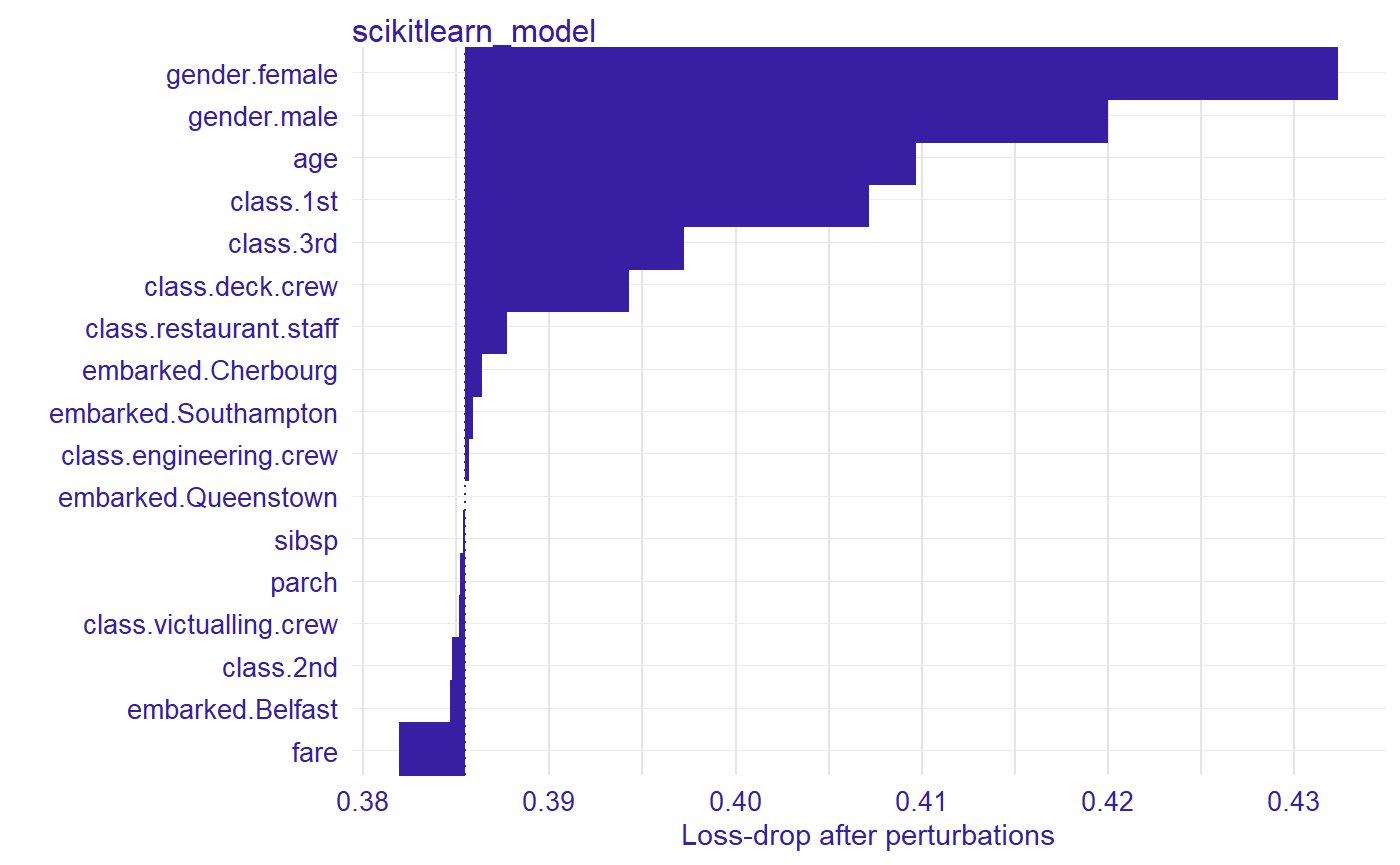
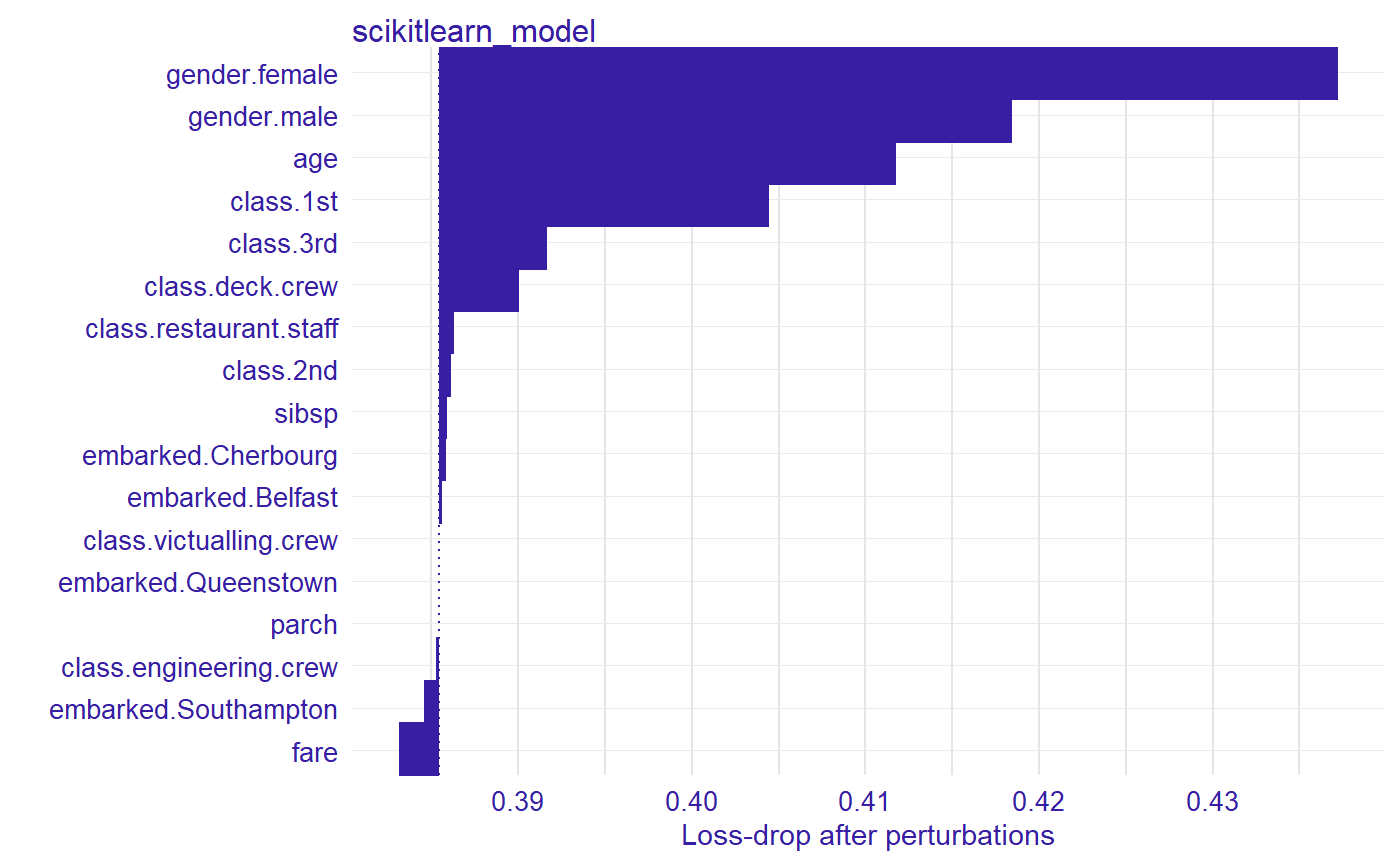
Site update

diff --git a/docs/reference/explain_mljar.html b/docs/reference/explain_mljar.html
@@ -6,7 +6,7 @@
 <meta http-equiv="X-UA-Compatible" content="IE=edge">
 <meta name="viewport" content="width=device-width, initial-scale=1.0">
 
-<title>Create explainer from your mlr model — explain_mlr • DALEXtra</title>
+<title>Create explainer from your mljar model — explain_mljar • DALEXtra</title>
 
 <!-- jquery -->
 <script src="https://code.jquery.com/jquery-3.1.0.min.js" integrity="sha384-nrOSfDHtoPMzJHjVTdCopGqIqeYETSXhZDFyniQ8ZHcVy08QesyHcnOUpMpqnmWq" crossorigin="anonymous"></script>
@@ -35,11 +35,11 @@
 
 
 
-<meta property="og:title" content="Create explainer from your mlr model — explain_mlr" />
+<meta property="og:title" content="Create explainer from your mljar model — explain_mljar" />
 
 <meta property="og:description" content="DALEX is designed to work with various black-box models like tree ensembles, linear models, neural networks etc.
-Unfortunately R packages that create such models are very inconsistent. Different tools use different interfaces to train, validate and use models.
-One of those tools, which is one of the most popular one is mlr package. We would like to present dedicated explain function for it." />
+Unfortunately packages that create such models are very inconsistent between many platforms and programming languages. Different tools use different interfaces to train, validate and use models.
+One of those tools, we would like to make more accessible is mljar." />
 <meta name="twitter:card" content="summary" />
 
 
@@ -117,29 +117,33 @@ One of those tools, which is one of the most popular one is mlr package. We woul
 <div class="row">
   <div class="col-md-9 contents">
     <div class="page-header">
-    <h1>Create explainer from your mlr model</h1>
+    <h1>Create explainer from your mljar model</h1>
     
-    <div class="hidden name"><code>explain_mlr.Rd</code></div>
+    <div class="hidden name"><code>explain_mljar.Rd</code></div>
     </div>
 
     <div class="ref-description">
     
     <p>DALEX is designed to work with various black-box models like tree ensembles, linear models, neural networks etc.
-Unfortunately R packages that create such models are very inconsistent. Different tools use different interfaces to train, validate and use models.
-One of those tools, which is one of the most popular one is mlr package. We would like to present dedicated explain function for it.</p>
+Unfortunately packages that create such models are very inconsistent between many platforms and programming languages. Different tools use different interfaces to train, validate and use models.
+One of those tools, we would like to make more accessible is mljar.</p>
     
     </div>
 
-    <pre class="usage"><span class='fu'>explain_mlr</span>(<span class='no'>model</span>, <span class='kw'>data</span> <span class='kw'>=</span> <span class='kw'>NULL</span>, <span class='kw'>y</span> <span class='kw'>=</span> <span class='kw'>NULL</span>, <span class='kw'>predict_function</span> <span class='kw'>=</span> <span class='kw'>NULL</span>,
-  <span class='kw'>residual_function</span> <span class='kw'>=</span> <span class='kw'>NULL</span>, <span class='no'>...</span>, <span class='kw'>label</span> <span class='kw'>=</span> <span class='kw'>NULL</span>, <span class='kw'>verbose</span> <span class='kw'>=</span> <span class='fl'>TRUE</span>,
-  <span class='kw'>precalculate</span> <span class='kw'>=</span> <span class='fl'>TRUE</span>)</pre>
+    <pre class="usage"><span class='fu'>explain_mljar</span>(<span class='no'>model</span>, <span class='no'>project_title</span>, <span class='kw'>data</span> <span class='kw'>=</span> <span class='kw'>NULL</span>, <span class='kw'>y</span> <span class='kw'>=</span> <span class='kw'>NULL</span>,
+  <span class='kw'>predict_function</span> <span class='kw'>=</span> <span class='kw'>NULL</span>, <span class='kw'>residual_function</span> <span class='kw'>=</span> <span class='kw'>NULL</span>, <span class='no'>...</span>,
+  <span class='kw'>label</span> <span class='kw'>=</span> <span class='kw'>NULL</span>, <span class='kw'>verbose</span> <span class='kw'>=</span> <span class='fl'>TRUE</span>, <span class='kw'>precalculate</span> <span class='kw'>=</span> <span class='fl'>TRUE</span>)</pre>
     
     <h2 class="hasAnchor" id="arguments"><a class="anchor" href="#arguments"></a>Arguments</h2>
     <table class="ref-arguments">
     <colgroup><col class="name" /><col class="desc" /></colgroup>
     <tr>
       <th>model</th>
-      <td><p>object - a model to be explained</p></td>
+      <td><p>object - a mljar model to be explained</p></td>
+    </tr>
+    <tr>
+      <th>project_title</th>
+      <td><p>character - a name of project_title  in which model was built. Without it predictions are unreachable.</p></td>
     </tr>
     <tr>
       <th>data</th>
@@ -171,7 +175,7 @@ One of those tools, which is one of the most popular one is mlr package. We woul
     </tr>
     <tr>
       <th>precalculate</th>
-      <td><p>if TRUE (default) then 'predicted_values' and 'residuals' are calculated when explainer is created. This will happenn also if 'verbose' is TRUE</p></td>
+      <td><p>if TRUE (default) then 'predicted_values' and 'residuals' are calculated when explainer is created. This will happenn also if 'verbose' is TRUE.</p></td>
     </tr>
     </table>
     
@@ -181,52 +185,21 @@ One of those tools, which is one of the most popular one is mlr package. We woul
     
 
     <h2 class="hasAnchor" id="examples"><a class="anchor" href="#examples"></a>Examples</h2>
-    <pre class="examples"><div class='input'><span class='fu'><a href='https://rdrr.io/r/base/library.html'>library</a></span>(<span class='st'>"DALEXtra"</span>)
+    <pre class="examples"><span class='co'># NOT RUN {</span>
+<span class='fu'><a href='https://rdrr.io/r/base/library.html'>library</a></span>(<span class='st'>"DALEXtra"</span>)
+<span class='fu'><a href='https://rdrr.io/r/base/library.html'>library</a></span>(<span class='no'>mljar</span>)
 <span class='no'>titanic_test</span> <span class='kw'>&lt;-</span> <span class='fu'><a href='https://rdrr.io/r/utils/read.table.html'>read.csv</a></span>(<span class='fu'><a href='https://rdrr.io/r/base/system.file.html'>system.file</a></span>(<span class='st'>"extdata"</span>, <span class='st'>"titanic_test.csv"</span>, <span class='kw'>package</span> <span class='kw'>=</span> <span class='st'>"DALEXtra"</span>))
-<span class='no'>titanic_train</span> <span class='kw'>&lt;-</span> <span class='fu'><a href='https://rdrr.io/r/utils/read.table.html'>read.csv</a></span>(<span class='fu'><a href='https://rdrr.io/r/base/system.file.html'>system.file</a></span>(<span class='st'>"extdata"</span>, <span class='st'>"titanic_train.csv"</span>, <span class='kw'>package</span> <span class='kw'>=</span> <span class='st'>"DALEXtra"</span>))
-<span class='fu'><a href='https://rdrr.io/r/base/library.html'>library</a></span>(<span class='st'>"mlr"</span>)</div><div class='output co'>#&gt; <span class='message'>Loading required package: ParamHelpers</span></div><div class='input'><span class='no'>task</span> <span class='kw'>&lt;-</span> <span class='kw pkg'>mlr</span><span class='kw ns'>::</span><span class='fu'><a href='https://rdrr.io/pkg/mlr/man/ClassifTask.html'>makeClassifTask</a></span>(
-<span class='kw'>id</span> <span class='kw'>=</span> <span class='st'>"R"</span>,
-<span class='kw'>data</span> <span class='kw'>=</span> <span class='no'>titanic_train</span>,
-<span class='kw'>target</span> <span class='kw'>=</span> <span class='st'>"survived"</span>
-)
-<span class='no'>learner</span> <span class='kw'>&lt;-</span> <span class='kw pkg'>mlr</span><span class='kw ns'>::</span><span class='fu'><a href='https://rdrr.io/pkg/mlr/man/makeLearner.html'>makeLearner</a></span>(
-  <span class='st'>"classif.gbm"</span>,
-  <span class='kw'>par.vals</span> <span class='kw'>=</span> <span class='fu'><a href='https://rdrr.io/r/base/list.html'>list</a></span>(
-    <span class='kw'>distribution</span> <span class='kw'>=</span> <span class='st'>"bernoulli"</span>,
-    <span class='kw'>n.trees</span> <span class='kw'>=</span> <span class='fl'>500</span>,
-    <span class='kw'>interaction.depth</span> <span class='kw'>=</span> <span class='fl'>4</span>,
-    <span class='kw'>n.minobsinnode</span> <span class='kw'>=</span> <span class='fl'>12</span>,
-    <span class='kw'>shrinkage</span> <span class='kw'>=</span> <span class='fl'>0.001</span>,
-    <span class='kw'>bag.fraction</span> <span class='kw'>=</span> <span class='fl'>0.5</span>,
-    <span class='kw'>train.fraction</span> <span class='kw'>=</span> <span class='fl'>1</span>
-  ),
-  <span class='kw'>predict.type</span> <span class='kw'>=</span> <span class='st'>"prob"</span>
-)
-<span class='no'>gbm</span> <span class='kw'>&lt;-</span> <span class='kw pkg'>mlr</span><span class='kw ns'>::</span><span class='fu'><a href='https://rdrr.io/pkg/mlr/man/train.html'>train</a></span>(<span class='no'>learner</span>, <span class='no'>task</span>)
-<span class='fu'>explain_mlr</span>(<span class='no'>gbm</span>, <span class='no'>titanic_test</span>[,<span class='fl'>1</span>:<span class='fl'>17</span>], <span class='no'>titanic_test</span>[,<span class='fl'>18</span>])</div><div class='output co'>#&gt; Preparation of a new explainer is initiated
-#&gt;   -&gt; model label       :  WrappedModel  (<span style='color: #BBBB00;'>default</span><span>)
-#&gt;   -&gt; data              :  524  rows  17  cols 
-#&gt;   -&gt; target variable   :  524  values 
-#&gt;   -&gt; predict function  :  yhat.WrappedModel  will be used (</span><span style='color: #BBBB00;'>default</span><span>)
-#&gt;   -&gt; predicted values  :  numerical, min =  0.2702407 , mean =  0.3324318 , max =  0.5648559  
-#&gt;   -&gt; residual function :  difference between y and yhat (</span><span style='color: #BBBB00;'>default</span><span>)
-#&gt;   -&gt; residuals         :  numerical, min =  -0.5648559 , mean =  -0.02136306 , max =  0.7297593  
-#&gt; </span><span style='color: #00BB00;'>A new explainer has been created!</span><span></div><div class='output co'>#&gt; Model label:  WrappedModel 
-#&gt; Model class:  WrappedModel 
-#&gt; Data head  :
-#&gt;   gender.female gender.male age class.1st class.2nd class.3rd class.deck.crew
-#&gt; 1             1           0  16         0         0         1               0
-#&gt; 2             0           1  25         0         0         1               0
-#&gt;   class.engineering.crew class.restaurant.staff class.victualling.crew
-#&gt; 1                      0                      0                      0
-#&gt; 2                      0                      0                      0
-#&gt;   embarked.Belfast embarked.Cherbourg embarked.Queenstown embarked.Southampton
-#&gt; 1                0                  0                   0                    1
-#&gt; 2                0                  0                   0                    1
-#&gt;   fare sibsp parch
-#&gt; 1 7.13     0     0
-#&gt; 2 7.13     0     0</div><div class='input'>
-</div></span></pre>
+
+<span class='no'>model</span> <span class='kw'>&lt;-</span> <span class='fu'><a href='https://rdrr.io/pkg/mljar/man/mljar_fit.html'>mljar_fit</a></span>(<span class='no'>titanic_test</span>[,<span class='fl'>1</span>:<span class='fl'>17</span>], <span class='no'>titanic_test</span>[,<span class='fl'>18</span>],
+                   <span class='kw'>proj_title</span><span class='kw'>=</span><span class='st'>"Project title"</span>, <span class='kw'>exp_title</span><span class='kw'>=</span><span class='st'>"experiment title"</span>,
+                   <span class='kw'>algorithms</span> <span class='kw'>=</span> <span class='fu'><a href='https://rdrr.io/r/base/c.html'>c</a></span>(<span class='st'>"logreg"</span>), <span class='kw'>metric</span> <span class='kw'>=</span> <span class='st'>"logloss"</span>)
+<span class='co'># It Works</span>
+<span class='no'>explainer</span> <span class='kw'>&lt;-</span> <span class='fu'>explain_mljar</span>(<span class='no'>model</span>, <span class='kw'>project_title</span> <span class='kw'>=</span> <span class='st'>"Project title"</span>,
+                           <span class='kw'>data</span> <span class='kw'>=</span> <span class='no'>titanic_test</span>[,<span class='fl'>1</span>:<span class='fl'>17</span>], <span class='no'>titanic_test</span>[,<span class='fl'>18</span>])
+<span class='co'># But it works aswell</span>
+<span class='no'>explainer</span> <span class='kw'>&lt;-</span> <span class='fu'>explain_mljar</span>(<span class='no'>model</span>, <span class='kw'>project_title</span> <span class='kw'>=</span> <span class='st'>"Project title"</span>,
+                           <span class='kw'>verbose</span> <span class='kw'>=</span> <span class='fl'>FALSE</span>, <span class='kw'>precalculate</span> <span class='kw'>=</span> <span class='fl'>FALSE</span>)
+<span class='co'># }</span></pre>
   </div>
   <div class="col-md-3 hidden-xs hidden-sm" id="sidebar">
     <h2>Contents</h2>

diff --git a/docs/index.html b/docs/index.html
@@ -107,14 +107,14 @@
 <p>Package can be installed with execution of the following code</p>
 <pre><code>install.packages("devtools")
 devtools::install_github("ModelOriented/DALEXtra")
-devtools::install_github("pbiecek/DALEX")</code></pre>
+devtools::install_github("ModelOriented/DALEX")</code></pre>
 <p>It is recommended to install latests github version of DALEX</p>
 <p>Package <code>reticulate</code> will be downloaded along with <code>DALEXtra</code> but if you seek for its latests version it can be downloaded here</p>
 <pre><code><a href="https://rdrr.io/pkg/devtools/man/reexports.html">devtools::install_github("rstudio/reticulate")</a></code></pre>
 <p>Packages useful with explanations</p>
-<pre><code>devtools::install_github("ModelOriented/ingredients)
-devtools::install_github("ModelOriented/iBreakDown)
-devtools::install_github("ModelOriented/shapper)
+<pre><code>devtools::install_github("ModelOriented/ingredients")
+devtools::install_github("ModelOriented/iBreakDown")
+devtools::install_github("ModelOriented/shapper")
 devtools::install_github("ModelOriented/auditor")</code></pre>
 <p><a href="https://modeloriented.github.io/DALEXtra/" class="uri">https://modeloriented.github.io/DALEXtra/</a></p>
 </div>
@@ -134,7 +134,7 @@ devtools::install_github("ModelOriented/auditor")</code></pre>
 <a href="#creating-explainer" class="anchor"></a>Creating explainer</h2>
 <div class="sourceCode" id="cb5"><pre class="sourceCode r"><code class="sourceCode r"><a class="sourceLine" id="cb5-1" title="1"><span class="kw"><a href="https://rdrr.io/r/base/library.html">library</a></span>(DALEXtra)</a>
 <a class="sourceLine" id="cb5-2" title="2">explainer &lt;-<span class="st"> </span><span class="kw"><a href="reference/explain_scikitlearn.html">explain_scikitlearn</a></span>(<span class="kw"><a href="https://rdrr.io/r/base/system.file.html">system.file</a></span>(<span class="st">"extdata"</span>, <span class="st">"scikitlearn.pkl"</span>, <span class="dt">package =</span> <span class="st">"DALEXtra"</span>),</a>
-<a class="sourceLine" id="cb5-3" title="3"><span class="dt">yml =</span> <span class="kw"><a href="https://rdrr.io/r/base/system.file.html">system.file</a></span>(<span class="st">"extdata"</span>, <span class="st">"scikitlearn_unix.yml"</span>, <span class="dt">package =</span> <span class="st">"DALEXtra"</span>), </a>
+<a class="sourceLine" id="cb5-3" title="3"><span class="dt">yml =</span> <span class="kw"><a href="https://rdrr.io/r/base/system.file.html">system.file</a></span>(<span class="st">"extdata"</span>, <span class="st">"testing_environment.yml"</span>, <span class="dt">package =</span> <span class="st">"DALEXtra"</span>), </a>
 <a class="sourceLine" id="cb5-4" title="4"><span class="dt">data =</span> titanic_test[,<span class="dv">1</span><span class="op">:</span><span class="dv">17</span>], <span class="dt">y =</span> titanic_test<span class="op">$</span>survived)</a></code></pre></div>
 <pre><code>## Preparation of a new explainer is initiated
 ##   -&gt; model label       :  scikitlearn_model  ([33mdefault[39m)
@@ -150,25 +150,35 @@ devtools::install_github("ModelOriented/auditor")</code></pre>
 <div id="creating-explanations" class="section level2">
 <h2 class="hasAnchor">
 <a href="#creating-explanations" class="anchor"></a>Creating explanations</h2>
-<p>Now with explainer ready we can use any of DrWhy.ai universe tools to make explanations. Here is small demo</p>
+<p>Now with explainer ready we can use any of DrWhy.ai universe tools to make explanations. Here is a small demo</p>
 <div class="sourceCode" id="cb7"><pre class="sourceCode r"><code class="sourceCode r"><a class="sourceLine" id="cb7-1" title="1"><span class="kw"><a href="https://rdrr.io/r/base/library.html">library</a></span>(DALEX)</a>
 <a class="sourceLine" id="cb7-2" title="2"><span class="kw"><a href="https://rdrr.io/r/graphics/plot.html">plot</a></span>(<span class="kw">model_performance</span>(explainer))</a></code></pre></div>
 <p><img src="index_files/figure-html/unnamed-chunk-3-1.png" width="700"></p>
 <div class="sourceCode" id="cb8"><pre class="sourceCode r"><code class="sourceCode r"><a class="sourceLine" id="cb8-1" title="1"><span class="kw"><a href="https://rdrr.io/r/base/library.html">library</a></span>(ingredients)</a>
 <a class="sourceLine" id="cb8-2" title="2"><span class="kw"><a href="https://rdrr.io/r/graphics/plot.html">plot</a></span>(<span class="kw">feature_importance</span>(explainer))</a></code></pre></div>
 <p><img src="index_files/figure-html/unnamed-chunk-3-2.png" width="700"></p>
-<div class="sourceCode" id="cb9"><pre class="sourceCode r"><code class="sourceCode r"><a class="sourceLine" id="cb9-1" title="1"><span class="kw"><a href="https://rdrr.io/r/base/library.html">library</a></span>(iBreakDown)</a>
-<a class="sourceLine" id="cb9-2" title="2"><span class="kw"><a href="https://rdrr.io/r/graphics/plot.html">plot</a></span>(<span class="kw">break_down</span>(explainer, titanic_test[<span class="dv">2</span>,<span class="dv">1</span><span class="op">:</span><span class="dv">17</span>]))</a></code></pre></div>
+<div class="sourceCode" id="cb9"><pre class="sourceCode r"><code class="sourceCode r"><a class="sourceLine" id="cb9-1" title="1"><span class="kw">describe</span>(<span class="kw">feature_importance</span>(explainer))</a></code></pre></div>
+<pre><code>## The number of important variables for scikitlearn_model's prediction is 2 out of 17. 
+##  Variables gender.female, gender.male have the highest importantance.</code></pre>
+<div class="sourceCode" id="cb11"><pre class="sourceCode r"><code class="sourceCode r"><a class="sourceLine" id="cb11-1" title="1"><span class="kw"><a href="https://rdrr.io/r/base/library.html">library</a></span>(iBreakDown)</a>
+<a class="sourceLine" id="cb11-2" title="2"><span class="kw"><a href="https://rdrr.io/r/graphics/plot.html">plot</a></span>(<span class="kw">break_down</span>(explainer, titanic_test[<span class="dv">2</span>,<span class="dv">1</span><span class="op">:</span><span class="dv">17</span>]))</a></code></pre></div>
 <p><img src="index_files/figure-html/unnamed-chunk-3-3.png" width="700"></p>
-<div class="sourceCode" id="cb10"><pre class="sourceCode r"><code class="sourceCode r"><a class="sourceLine" id="cb10-1" title="1"><span class="kw"><a href="https://rdrr.io/r/base/library.html">library</a></span>(shapper)</a>
-<a class="sourceLine" id="cb10-2" title="2"><span class="kw"><a href="https://rdrr.io/r/graphics/plot.html">plot</a></span>(<span class="kw">shap</span>(explainer, titanic_test[<span class="dv">2</span>,<span class="dv">1</span><span class="op">:</span><span class="dv">17</span>]))</a></code></pre></div>
+<div class="sourceCode" id="cb12"><pre class="sourceCode r"><code class="sourceCode r"><a class="sourceLine" id="cb12-1" title="1"><span class="kw">describe</span>(<span class="kw">break_down</span>(explainer, titanic_test[<span class="dv">2</span>,<span class="dv">1</span><span class="op">:</span><span class="dv">17</span>]))</a></code></pre></div>
+<pre><code>## Scikitlearn_model predicts, that the prediction for the selected instance is 0.132 which is lower than the average model prediction.
+##  
+## The most important variables that decrease the prediction are class.3rd, gender.female. 
+## The most important variable that increase the prediction is age.
+##  
+## Other variables are with less importance. The contribution of all other variables is -0.108 .</code></pre>
+<div class="sourceCode" id="cb14"><pre class="sourceCode r"><code class="sourceCode r"><a class="sourceLine" id="cb14-1" title="1"><span class="kw"><a href="https://rdrr.io/r/base/library.html">library</a></span>(shapper)</a>
+<a class="sourceLine" id="cb14-2" title="2"><span class="kw"><a href="https://rdrr.io/r/graphics/plot.html">plot</a></span>(<span class="kw">shap</span>(explainer, titanic_test[<span class="dv">2</span>,<span class="dv">1</span><span class="op">:</span><span class="dv">17</span>]))</a></code></pre></div>
 <p><img src="index_files/figure-html/unnamed-chunk-3-4.png" width="700"></p>
-<div class="sourceCode" id="cb11"><pre class="sourceCode r"><code class="sourceCode r"><a class="sourceLine" id="cb11-1" title="1"><span class="kw"><a href="https://rdrr.io/r/base/library.html">library</a></span>(auditor)</a>
-<a class="sourceLine" id="cb11-2" title="2">eval &lt;-<span class="st"> </span><span class="kw">model_evaluation</span>(explainer)</a>
-<a class="sourceLine" id="cb11-3" title="3"><span class="kw">plot_roc</span>(eval)</a></code></pre></div>
+<div class="sourceCode" id="cb15"><pre class="sourceCode r"><code class="sourceCode r"><a class="sourceLine" id="cb15-1" title="1"><span class="kw"><a href="https://rdrr.io/r/base/library.html">library</a></span>(auditor)</a>
+<a class="sourceLine" id="cb15-2" title="2">eval &lt;-<span class="st"> </span><span class="kw">model_evaluation</span>(explainer)</a>
+<a class="sourceLine" id="cb15-3" title="3"><span class="kw">plot_roc</span>(eval)</a></code></pre></div>
 <p><img src="index_files/figure-html/unnamed-chunk-3-5.png" width="700"></p>
-<div class="sourceCode" id="cb12"><pre class="sourceCode r"><code class="sourceCode r"><a class="sourceLine" id="cb12-1" title="1"><span class="co"># Predictions with newdata</span></a>
-<a class="sourceLine" id="cb12-2" title="2"><span class="kw"><a href="https://rdrr.io/r/stats/predict.html">predict</a></span>(explainer, titanic_test[<span class="dv">1</span><span class="op">:</span><span class="dv">10</span>, <span class="dv">1</span><span class="op">:</span><span class="dv">17</span>])</a></code></pre></div>
+<div class="sourceCode" id="cb16"><pre class="sourceCode r"><code class="sourceCode r"><a class="sourceLine" id="cb16-1" title="1"><span class="co"># Predictions with newdata</span></a>
+<a class="sourceLine" id="cb16-2" title="2"><span class="kw"><a href="https://rdrr.io/r/stats/predict.html">predict</a></span>(explainer, titanic_test[<span class="dv">1</span><span class="op">:</span><span class="dv">10</span>, <span class="dv">1</span><span class="op">:</span><span class="dv">17</span>])</a></code></pre></div>
 <pre><code>##  [1] 0.3565896 0.1321947 0.7638813 0.1037486 0.1265221 0.2949228 0.1421281
 ##  [8] 0.1421281 0.4154695 0.1321947</code></pre>
 </div>

diff --git a/docs/reference/explain_h2o.html b/docs/reference/explain_h2o.html
@@ -143,7 +143,7 @@ One of those tools, we would like to make more accessible is H2O.</p>
     </tr>
     <tr>
       <th>data</th>
-      <td><p>data.frame or matrix - data that was used for fitting. If not provided then will be extracted from the model</p></td>
+      <td><p>data.frame or matrix - data that was used for fitting. If not provided then will be extracted from the model. Data should be passed without target column (y parameter). If not, some of the functionalities my not work.</p></td>
     </tr>
     <tr>
       <th>y</th>
@@ -184,17 +184,25 @@ One of those tools, we would like to make more accessible is H2O.</p>
     <pre class="examples"><div class='input'><span class='fu'><a href='https://rdrr.io/r/base/library.html'>library</a></span>(<span class='st'>"DALEXtra"</span>)
 <span class='no'>titanic_test</span> <span class='kw'>&lt;-</span> <span class='fu'><a href='https://rdrr.io/r/utils/read.table.html'>read.csv</a></span>(<span class='fu'><a href='https://rdrr.io/r/base/system.file.html'>system.file</a></span>(<span class='st'>"extdata"</span>, <span class='st'>"titanic_test.csv"</span>, <span class='kw'>package</span> <span class='kw'>=</span> <span class='st'>"DALEXtra"</span>))
 <span class='no'>titanic_train</span> <span class='kw'>&lt;-</span> <span class='fu'><a href='https://rdrr.io/r/utils/read.table.html'>read.csv</a></span>(<span class='fu'><a href='https://rdrr.io/r/base/system.file.html'>system.file</a></span>(<span class='st'>"extdata"</span>, <span class='st'>"titanic_train.csv"</span>, <span class='kw'>package</span> <span class='kw'>=</span> <span class='st'>"DALEXtra"</span>))
-<span class='kw pkg'>h2o</span><span class='kw ns'>::</span><span class='fu'><a href='https://rdrr.io/pkg/h2o/man/h2o.init.html'>h2o.init</a></span>()</div><div class='output co'>#&gt;  Connection successful!
+<span class='kw pkg'>h2o</span><span class='kw ns'>::</span><span class='fu'><a href='https://rdrr.io/pkg/h2o/man/h2o.init.html'>h2o.init</a></span>()</div><div class='output co'>#&gt; 
+#&gt; H2O is not running yet, starting it now...
+#&gt; 
+#&gt; Note:  In case of errors look at the following log files:
+#&gt;     C:\Users\szyna\AppData\Local\Temp\RtmpYZL02P/h2o_szyna_started_from_r.out
+#&gt;     C:\Users\szyna\AppData\Local\Temp\RtmpYZL02P/h2o_szyna_started_from_r.err
+#&gt; 
+#&gt; 
+#&gt; Starting H2O JVM and connecting: . Connection successful!
 #&gt; 
 #&gt; R is connected to the H2O cluster: 
-#&gt;     H2O cluster uptime:         5 hours 49 minutes 
+#&gt;     H2O cluster uptime:         3 seconds 9 milliseconds 
 #&gt;     H2O cluster timezone:       Europe/Belgrade 
 #&gt;     H2O data parsing timezone:  UTC 
 #&gt;     H2O cluster version:        3.24.0.5 
-#&gt;     H2O cluster version age:    2 months and 1 day  
-#&gt;     H2O cluster name:           H2O_started_from_R_szyna_czg417 
+#&gt;     H2O cluster version age:    2 months and 3 days  
+#&gt;     H2O cluster name:           H2O_started_from_R_szyna_mwl453 
 #&gt;     H2O cluster total nodes:    1 
-#&gt;     H2O cluster total memory:   1.95 GB 
+#&gt;     H2O cluster total memory:   1.97 GB 
 #&gt;     H2O cluster total cores:    4 
 #&gt;     H2O cluster allowed cores:  4 
 #&gt;     H2O cluster healthy:        TRUE 
@@ -220,14 +228,14 @@ One of those tools, we would like to make more accessible is H2O.</p>
 <span class='fu'>explain_h2o</span>(<span class='no'>model</span>, <span class='no'>titanic_test</span>[,<span class='fl'>1</span>:<span class='fl'>17</span>], <span class='no'>titanic_test</span>[,<span class='fl'>18</span>])</div><div class='output co'>#&gt;  Connection successful!
 #&gt; 
 #&gt; R is connected to the H2O cluster: 
-#&gt;     H2O cluster uptime:         5 hours 49 minutes 
+#&gt;     H2O cluster uptime:         10 seconds 525 milliseconds 
 #&gt;     H2O cluster timezone:       Europe/Belgrade 
 #&gt;     H2O data parsing timezone:  UTC 
 #&gt;     H2O cluster version:        3.24.0.5 
-#&gt;     H2O cluster version age:    2 months and 1 day  
-#&gt;     H2O cluster name:           H2O_started_from_R_szyna_czg417 
+#&gt;     H2O cluster version age:    2 months and 3 days  
+#&gt;     H2O cluster name:           H2O_started_from_R_szyna_mwl453 
 #&gt;     H2O cluster total nodes:    1 
-#&gt;     H2O cluster total memory:   1.95 GB 
+#&gt;     H2O cluster total memory:   1.97 GB 
 #&gt;     H2O cluster total cores:    4 
 #&gt;     H2O cluster allowed cores:  4 
 #&gt;     H2O cluster healthy:        TRUE 

diff --git a/docs/reference/explain_keras.html b/docs/reference/explain_keras.html
@@ -217,6 +217,37 @@ If .yml file seems not to work, virtual env can be created manually using anacon
 <code>conda install -n name_of_env name_of_package=0.20</code> <br /></p>
     
 
+    <h2 class="hasAnchor" id="examples"><a class="anchor" href="#examples"></a>Examples</h2>
+    <pre class="examples"><div class='input'><span class='fu'><a href='https://rdrr.io/r/base/library.html'>library</a></span>(<span class='st'>"DALEXtra"</span>)
+<span class='kw'>if</span>(<span class='kw pkg'>DALEXtra</span><span class='kw ns'>:::</span><span class='fu'>is_conda</span>()) {
+   <span class='co'># Explainer build (Keep in mind that 9th column is target)</span>
+   <span class='no'>test_data</span> <span class='kw'>&lt;-</span>
+   <span class='fu'><a href='https://rdrr.io/r/utils/read.table.html'>read.csv</a></span>(
+   <span class='st'>"https://raw.githubusercontent.com/jbrownlee/Datasets/master/pima-indians-diabetes.data.csv"</span>,
+   <span class='kw'>sep</span> <span class='kw'>=</span> <span class='st'>","</span>)
+   <span class='co'># Keep in mind that when pickle is being built and loaded,</span>
+   <span class='co'># not only Python version but libraries versions has to match aswell</span>
+   <span class='no'>explainer</span> <span class='kw'>&lt;-</span> <span class='fu'>explain_keras</span>(<span class='fu'><a href='https://rdrr.io/r/base/system.file.html'>system.file</a></span>(<span class='st'>"extdata"</span>, <span class='st'>"keras.pkl"</span>, <span class='kw'>package</span> <span class='kw'>=</span> <span class='st'>"DALEXtra"</span>),
+   <span class='kw'>yml</span> <span class='kw'>=</span> <span class='fu'><a href='https://rdrr.io/r/base/system.file.html'>system.file</a></span>(<span class='st'>"extdata"</span>, <span class='st'>"testing_environment.yml"</span>, <span class='kw'>package</span> <span class='kw'>=</span> <span class='st'>"DALEXtra"</span>),
+   <span class='kw'>data</span> <span class='kw'>=</span> <span class='no'>test_data</span>[,<span class='fl'>1</span>:<span class='fl'>8</span>], <span class='kw'>y</span> <span class='kw'>=</span> <span class='no'>test_data</span>[,<span class='fl'>9</span>])
+   <span class='fu'><a href='https://rdrr.io/r/graphics/plot.html'>plot</a></span>(<span class='fu'>model_performance</span>(<span class='no'>explainer</span>))
+
+   <span class='co'># Predictions with newdata</span>
+   <span class='fu'><a href='https://rdrr.io/r/stats/predict.html'>predict</a></span>(<span class='no'>explainer</span>, <span class='no'>test_data</span>[<span class='fl'>1</span>:<span class='fl'>10</span>,<span class='fl'>1</span>:<span class='fl'>8</span>])
+
+} <span class='kw'>else</span> {
+  <span class='fu'><a href='https://rdrr.io/r/base/print.html'>print</a></span>(<span class='st'>'Conda is required.'</span>)
+}</div><div class='output co'>#&gt; <span class='message'>There already exists environment named the same as it is specified in .yml file - myenv. It will be used</span></div><div class='output co'>#&gt; Preparation of a new explainer is initiated
+#&gt;   -&gt; model label       :  keras  (<span style='color: #BBBB00;'>default</span><span>)
+#&gt;   -&gt; data              :  767  rows  8  cols 
+#&gt;   -&gt; target variable   :  767  values 
+#&gt;   -&gt; predict function  :  yhat.keras  will be used (</span><span style='color: #BBBB00;'>default</span><span>)
+#&gt;   -&gt; predicted values  :  numerical, min =  0.004537016 , mean =  0.316504 , max =  0.9806014  
+#&gt;   -&gt; residual function :  difference between y and yhat (</span><span style='color: #BBBB00;'>default</span><span>)
+#&gt;   -&gt; residuals         :  numerical, min =  -0.8733932 , mean =  0.03160553 , max =  0.9648628  
+#&gt; </span><span style='color: #00BB00;'>A new explainer has been created!</span><span></div><div class='output co'>#&gt;  [1] 0.16833094 0.75797921 0.05761898 0.69794130 0.21207666 0.22323561
+#&gt;  [7] 0.75763035 0.56127292 0.46056730 0.11284519</div><div class='input'>
+</div></span></pre>
   </div>
   <div class="col-md-3 hidden-xs hidden-sm" id="sidebar">
     <h2>Contents</h2>
@@ -224,7 +255,9 @@ If .yml file seems not to work, virtual env can be created manually using anacon
       <li><a href="#arguments">Arguments</a></li>
       
       <li><a href="#value">Value</a></li>
-          </ul>
+      
+      <li><a href="#examples">Examples</a></li>
+    </ul>
 
     <h2>Author</h2>
     <p>Szymon Maksymiuk</p>

diff --git a/docs/reference/explain_scikitlearn.html b/docs/reference/explain_scikitlearn.html
@@ -237,7 +237,7 @@ If .yml file seems not to work, virtual env can be created manually using anacon
    <span class='co'># Keep in mind that when pickle is being built and loaded,</span>
    <span class='co'># not only Python version but libraries versions has to match aswell</span>
    <span class='no'>explainer</span> <span class='kw'>&lt;-</span> <span class='fu'>explain_scikitlearn</span>(<span class='fu'><a href='https://rdrr.io/r/base/system.file.html'>system.file</a></span>(<span class='st'>"extdata"</span>, <span class='st'>"scikitlearn.pkl"</span>, <span class='kw'>package</span> <span class='kw'>=</span> <span class='st'>"DALEXtra"</span>),
-   <span class='kw'>yml</span> <span class='kw'>=</span> <span class='fu'><a href='https://rdrr.io/r/base/system.file.html'>system.file</a></span>(<span class='st'>"extdata"</span>, <span class='st'>"scikitlearn_unix.yml"</span>, <span class='kw'>package</span> <span class='kw'>=</span> <span class='st'>"DALEXtra"</span>),
+   <span class='kw'>yml</span> <span class='kw'>=</span> <span class='fu'><a href='https://rdrr.io/r/base/system.file.html'>system.file</a></span>(<span class='st'>"extdata"</span>, <span class='st'>"testing_environment.yml"</span>, <span class='kw'>package</span> <span class='kw'>=</span> <span class='st'>"DALEXtra"</span>),
    <span class='kw'>data</span> <span class='kw'>=</span> <span class='no'>titanic_test</span>[,<span class='fl'>1</span>:<span class='fl'>17</span>], <span class='kw'>y</span> <span class='kw'>=</span> <span class='no'>titanic_test</span>$<span class='no'>survived</span>)
    <span class='fu'><a href='https://rdrr.io/r/graphics/plot.html'>plot</a></span>(<span class='fu'>model_performance</span>(<span class='no'>explainer</span>))
 

diff --git a/docs/reference/index.html b/docs/reference/index.html
@@ -151,6 +151,12 @@
       </tr><tr>
         
         <td>
+          <p><code><a href="explain_mljar.html">explain_mljar()</a></code> </p>
+        </td>
+        <td><p>Create explainer from your mljar model</p></td>
+      </tr><tr>
+        
+        <td>
           <p><code><a href="explain_mlr.html">explain_mlr()</a></code> </p>
         </td>
         <td><p>Create explainer from your mlr model</p></td>
@@ -169,7 +175,7 @@
       </tr><tr>
         
         <td>
-          <p><code><a href="yhat.html">yhat(<i>&lt;WrappedModel&gt;</i>)</a></code> <code><a href="yhat.html">yhat(<i>&lt;H2ORegressionModel&gt;</i>)</a></code> <code><a href="yhat.html">yhat(<i>&lt;H2OBinomialModel&gt;</i>)</a></code> <code><a href="yhat.html">yhat(<i>&lt;scikitlearn_model&gt;</i>)</a></code> <code><a href="yhat.html">yhat(<i>&lt;keras&gt;</i>)</a></code> </p>
+          <p><code><a href="yhat.html">yhat(<i>&lt;WrappedModel&gt;</i>)</a></code> <code><a href="yhat.html">yhat(<i>&lt;H2ORegressionModel&gt;</i>)</a></code> <code><a href="yhat.html">yhat(<i>&lt;H2OBinomialModel&gt;</i>)</a></code> <code><a href="yhat.html">yhat(<i>&lt;scikitlearn_model&gt;</i>)</a></code> <code><a href="yhat.html">yhat(<i>&lt;keras&gt;</i>)</a></code> <code><a href="yhat.html">yhat(<i>&lt;mljar_model&gt;</i>)</a></code> </p>
         </td>
         <td><p>Wrapper over the predict function</p></td>
       </tr>

diff --git a/docs/reference/create_env.html b/docs/reference/create_env.html
@@ -151,7 +151,7 @@
   <span class='kw pkg'>reticulate</span><span class='kw ns'>::</span><span class='fu'><a href='https://rdrr.io/pkg/reticulate/man/use_python.html'>use_condaenv</a></span>(<span class='st'>"myenv"</span>)
 
     <span class='fu'>create_env</span>(
-      <span class='fu'><a href='https://rdrr.io/r/base/system.file.html'>system.file</a></span>(<span class='st'>"extdata"</span>, <span class='st'>"scikitlearn_unix.yml"</span>, <span class='kw'>package</span> <span class='kw'>=</span> <span class='st'>"DALEXtra"</span>),
+      <span class='fu'><a href='https://rdrr.io/r/base/system.file.html'>system.file</a></span>(<span class='st'>"extdata"</span>, <span class='st'>"testing_environment.yml"</span>, <span class='kw'>package</span> <span class='kw'>=</span> <span class='st'>"DALEXtra"</span>),
       <span class='kw'>condaenv</span> <span class='kw'>=</span> <span class='fu'><a href='https://rdrr.io/r/base/paste.html'>paste</a></span>(
         <span class='fu'><a href='https://rdrr.io/r/base/grep.html'>sub</a></span>(<span class='st'>'[/][^/]+$'</span>, <span class='st'>''</span>, <span class='kw pkg'>reticulate</span><span class='kw ns'>::</span><span class='fu'><a href='https://rdrr.io/pkg/reticulate/man/conda-tools.html'>conda_binary</a></span>()[<span class='fl'>1</span>]),
         <span class='st'>"/.."</span>,

diff --git a/docs/reference/yhat.html b/docs/reference/yhat.html
@@ -141,6 +141,9 @@ Each function returns a single numeric score for each new observation.</p>
 <span class='fu'>yhat</span>(<span class='no'>X.model</span>, <span class='no'>newdata</span>, <span class='no'>...</span>)
 
 <span class='co'># S3 method for keras</span>
+<span class='fu'>yhat</span>(<span class='no'>X.model</span>, <span class='no'>newdata</span>, <span class='no'>...</span>)
+
+<span class='co'># S3 method for mljar_model</span>
 <span class='fu'>yhat</span>(<span class='no'>X.model</span>, <span class='no'>newdata</span>, <span class='no'>...</span>)</pre>
     
     <h2 class="hasAnchor" id="arguments"><a class="anchor" href="#arguments"></a>Arguments</h2>

diff --git a/docs/news/index.html b/docs/news/index.html
@@ -122,6 +122,8 @@
 <ul>
 <li>
 <code><a href="../reference/explain_keras.html">explain_keras()</a></code> added.</li>
+<li>
+<code><a href="../reference/explain_mljar.html">explain_mljar()</a></code> added.</li>
 <li>documentation refreshed with links to functions</li>
 <li>
 <code><a href="../reference/explain_scikitlearn.html">explain_scikitlearn()</a></code> rebuilded. Some of the code was exported to inner functions (other.R)</li>
